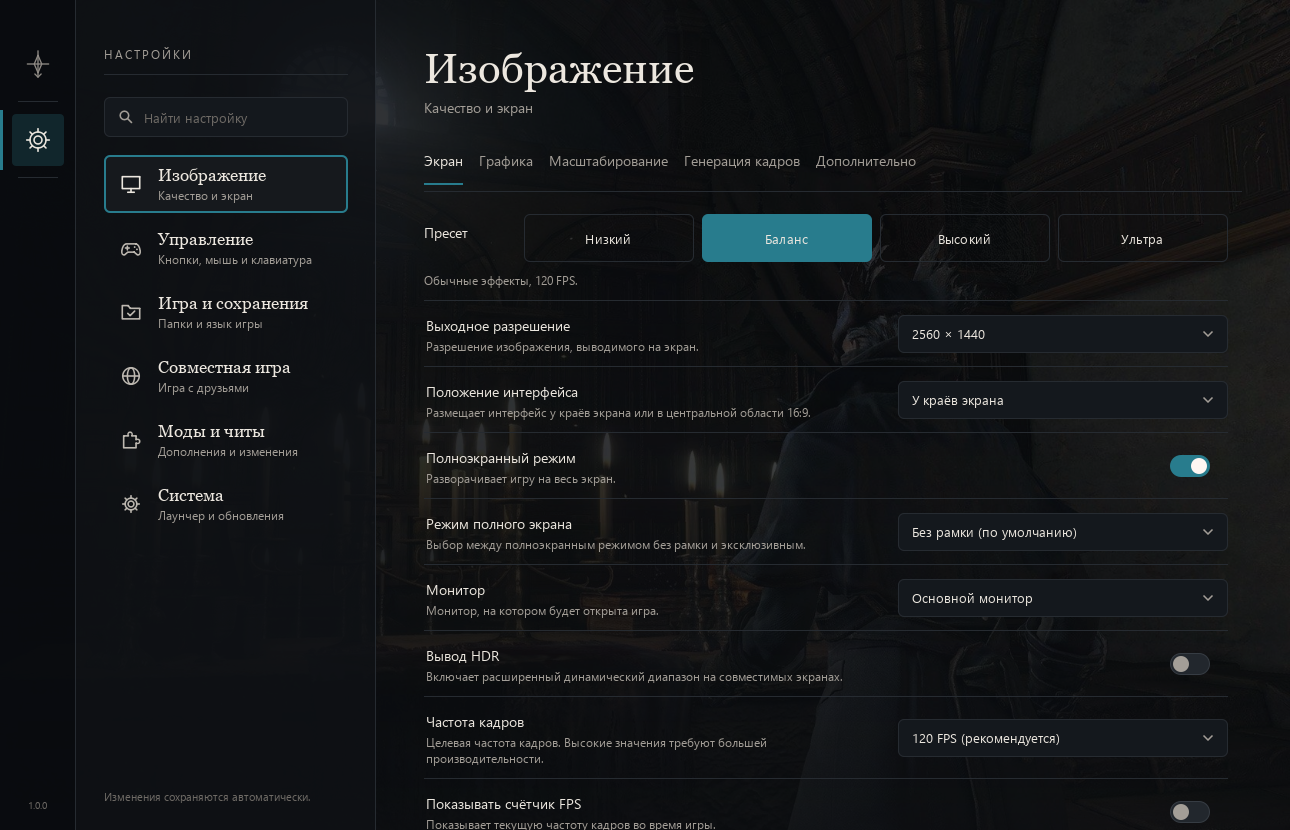
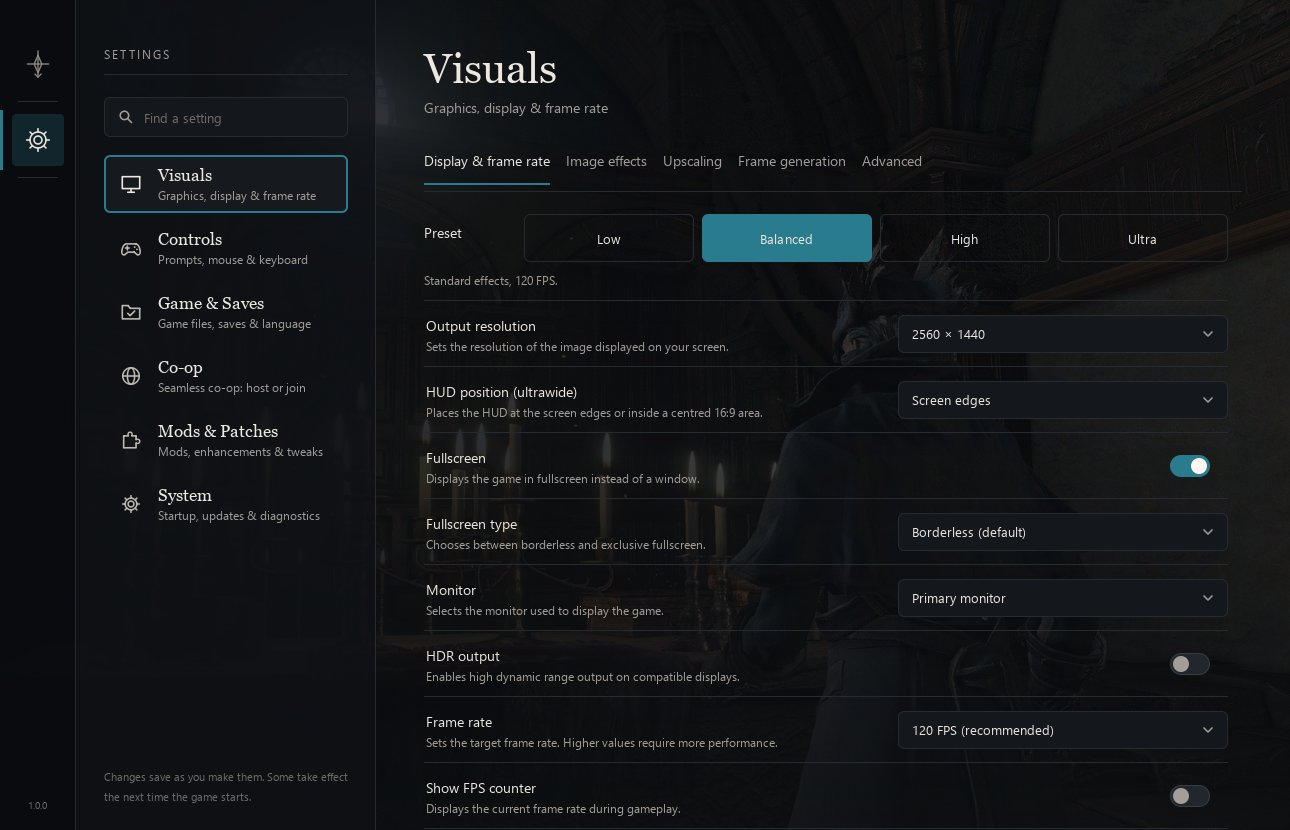
docs: use English launcher screenshots

diff --git a/README.ru.md b/README.ru.md
@@ -36,7 +36,7 @@ BBGL объединяет установку, настройку и запуск
 
 ## Лаунчер
 
-Обновлённый интерфейс доступен на русском и английском. Главный экран и настройки изображения:
+Обновлённый интерфейс доступен на русском и английском. На скриншотах — главный экран и настройки изображения на английском:
 
 ![Главный экран](docs/screenshots/launcher-home.png)
 

diff --git a/README.md b/README.md
@@ -36,7 +36,7 @@ Bundled mod/server integration, personal versus main-story progress, seamless ch
 
 ## Launcher
 
-The redesigned interface supports English and Russian. Screenshots show the Russian interface.
+The redesigned interface supports English and Russian. Screenshots show the English interface.
 
 ![Home](docs/screenshots/launcher-home.png)
 
